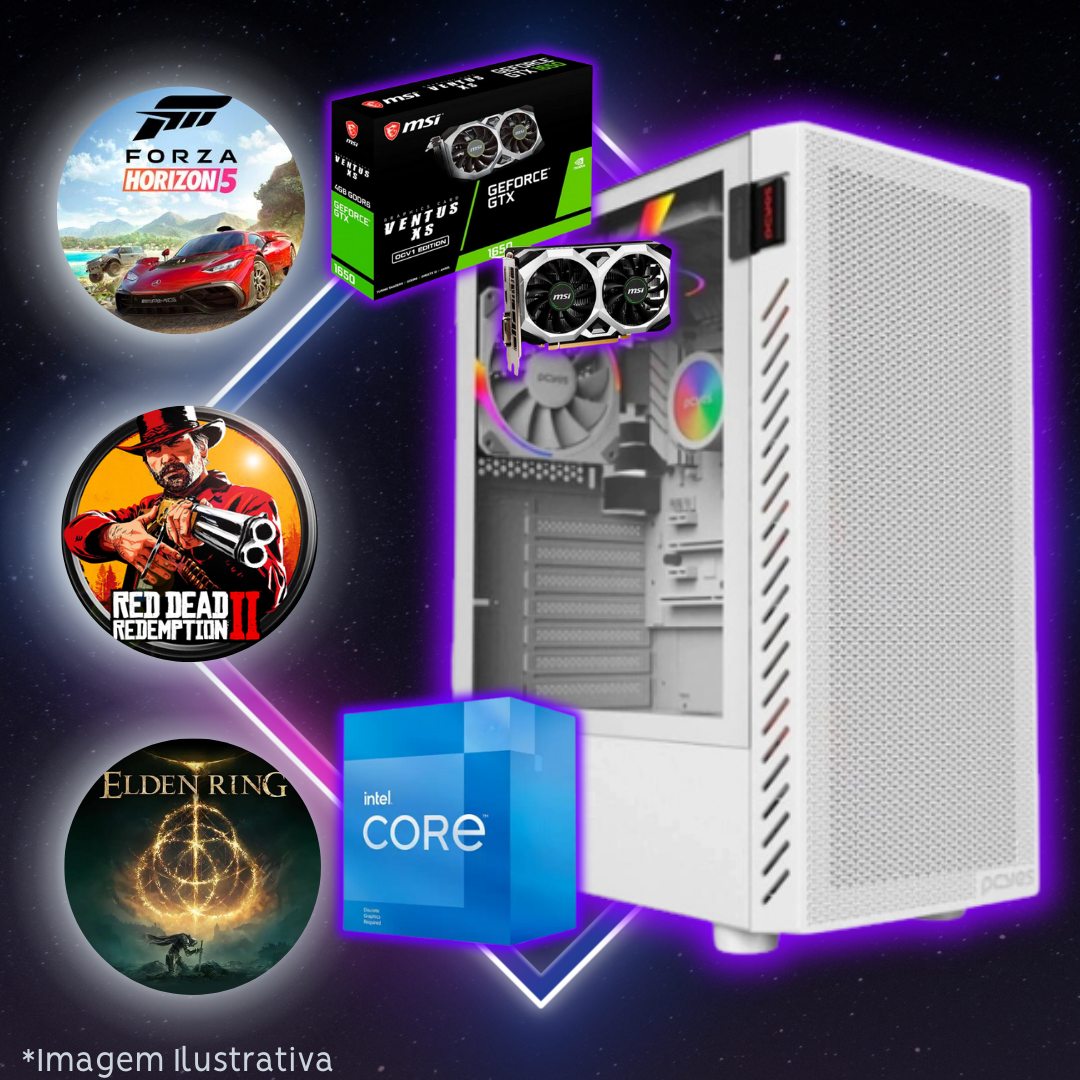
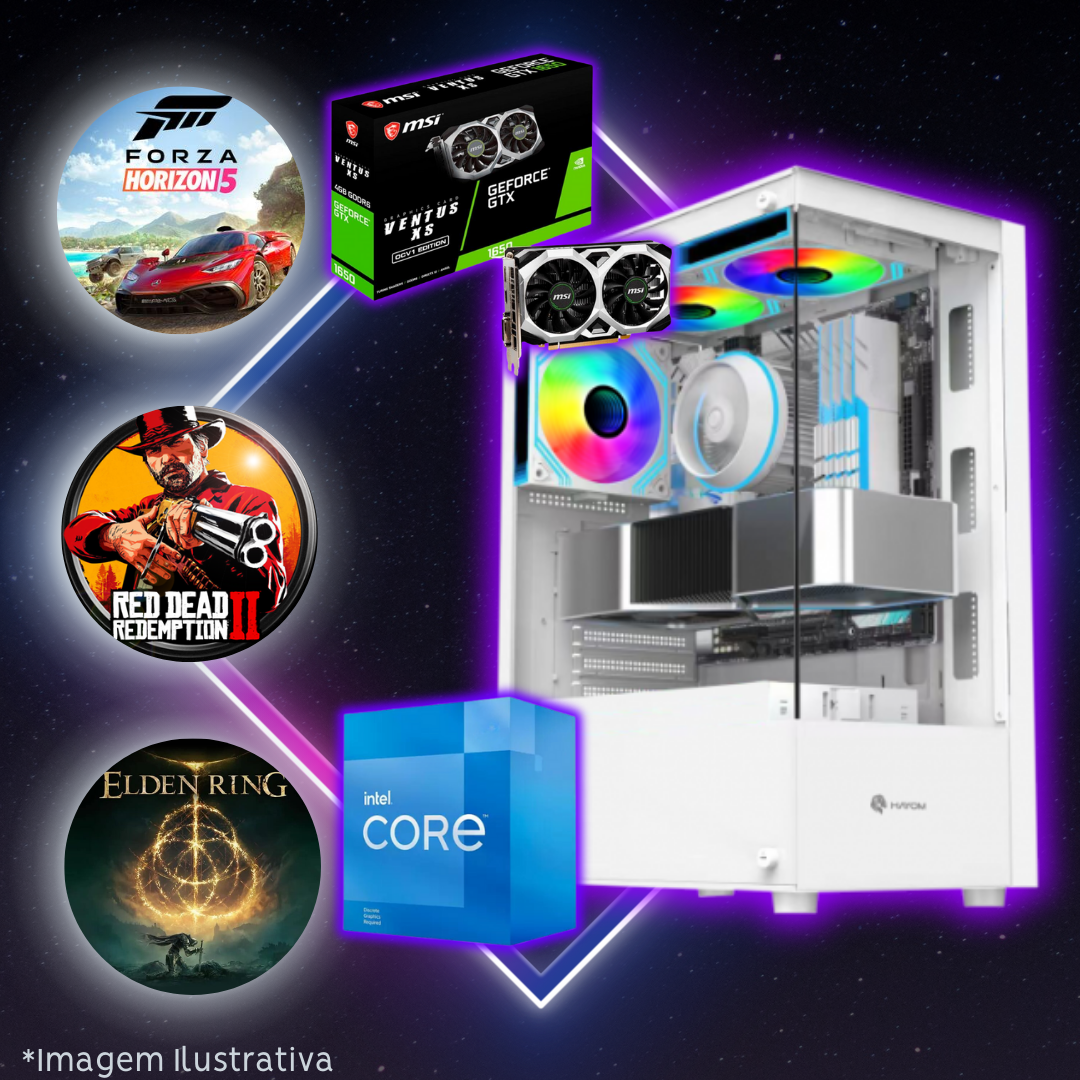
PC INTEL Nº7 UPDATED

diff --git a/src/routes/intel/+page.svelte b/src/routes/intel/+page.svelte
@@ -48,7 +48,7 @@
     {
       title: "Nº7 - i3 de 13ª + GTX 1650 4GB",
       image: "N4-INTEL.png",
-      text: "*UMA BASE DO QUE RODARIA NO COMPUTADOR:* \n 🚔 GTA RP\n🔫 CSGO/VALORANT\n🦙 FORTNITE\n 🐎Red Dead Redemption 2\n🗡Elden Ring\n\n*Processador:* I3-13100F (13ª Geração)\n*Placa Mãe:* H610 (LGA 1700)\n*Memória RAM:* 2x8GB DDR4\n*Placa de Vídeo:* GTX 1650 4GB\n*Armazenamento:* SSD 480GB\n*Gabinete:* HAYOM BRANCO C/3 FANS\n*Fonte:* 500W\n\n*R$ 4.390,00* em até 10x sem juros!\n\n*Formas de Pagamento:*\n💳Cartão - Débito á vista ou Crédito em até *10x SEM JUROS*\n❖ Pix á Vista\n❌*NÃO* é possível realizar pagamento via Boleto Bancário",
+      text: "*UMA BASE DO QUE RODARIA NO COMPUTADOR:* \n 🚔 GTA RP\n🔫 CSGO/VALORANT\n🦙 FORTNITE\n 🐎Red Dead Redemption 2\n🗡Elden Ring\n\n*Processador:* I3-13100F (13ª Geração)\n*Placa Mãe:* H610 (LGA 1700)\n*Memória RAM:* 2x8GB DDR4\n*Placa de Vídeo:* rtx 3050 6GB\n*Armazenamento:* SSD 480GB\n*Gabinete:* HAYOM BRANCO C/3 FANS\n*Fonte:* 500W\n\n*R$ 4.990,00* em até 10x sem juros!\n\n*Formas de Pagamento:*\n💳Cartão - Débito á vista ou Crédito em até *10x SEM JUROS*\n❖ Pix á Vista\n❌*NÃO* é possível realizar pagamento via Boleto Bancário",
     },
 
     // R$4.590,00
